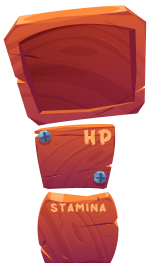
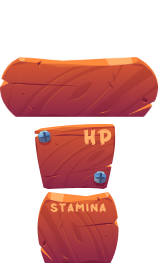
recover buttons texture default

diff --git a/Game/Source/UIModule.cpp b/Game/Source/UIModule.cpp
@@ -76,7 +76,7 @@ bool UIModule::Start()
 	checkboxTexture = app->tex->Load("Assets/UI/checkbox.png");
 	sliderTexture = app->tex->Load("Assets/UI/sliderbar.png");
 
-	textureA = app->tex->Load("Assets/UI/UI_Spritesheet_FINAL.png");
+	defaultButtonTexture = app->tex->Load("Assets/UI/defaultButton.png");
 	playButtonTexture = app->tex->Load("Assets/UI/playButton.png");
 	optionsButtonTexture = app->tex->Load("Assets/UI/optionsButton.png");
 	creditsButtonTexture = app->tex->Load("Assets/UI/creditsButton.png");
@@ -104,41 +104,41 @@ bool UIModule::Start()
 	mainmenu_continueGame_button = (GuiButton*)app->guiManager->CreateGuiControl(GuiControlType::BUTTON, 6, continueButtonsTexture, "", { 800, 740, 340, 89 }, this);
 	mainmenu_return_button =	   (GuiButton*)app->guiManager->CreateGuiControl(GuiControlType::BUTTON, 7, returnButtonTexture,"", { 800, 950, 340,89 }, this);
 
-	pausemenu_resume_button =	  (GuiButton*)app->guiManager->CreateGuiControl(GuiControlType::BUTTON, 20, textureA, "Resume", { 1620, 80, 120,30 }, this);
-	pausemenu_inventory_button =  (GuiButton*)app->guiManager->CreateGuiControl(GuiControlType::BUTTON, 21, textureA, "Inventory", { 1620, 115, 120,30 }, this);
-	pausemenu_party_button =	  (GuiButton*)app->guiManager->CreateGuiControl(GuiControlType::BUTTON, 24, textureA, "Party", { 1620, 150, 120,30 }, this);
-	pausemenu_save_button =		  (GuiButton*)app->guiManager->CreateGuiControl(GuiControlType::BUTTON, 8, textureA, "Save", { 1620, 185, 120,30 }, this);
-	pausemenu_load_button =		  (GuiButton*)app->guiManager->CreateGuiControl(GuiControlType::BUTTON, 22, textureA, "Load", { 1620, 220, 120,30 }, this);
-	pausemenu_options_button =	  (GuiButton*)app->guiManager->CreateGuiControl(GuiControlType::BUTTON, 9, textureA, "Options", { 1620, 255, 120,30 }, this);
+	pausemenu_resume_button =	  (GuiButton*)app->guiManager->CreateGuiControl(GuiControlType::BUTTON, 20, defaultButtonTexture, "Resume", { 1620, 80, 127,33 }, this);
+	pausemenu_inventory_button =  (GuiButton*)app->guiManager->CreateGuiControl(GuiControlType::BUTTON, 21, defaultButtonTexture, "Inventory", { 1620, 115, 127,33 }, this);
+	pausemenu_party_button =	  (GuiButton*)app->guiManager->CreateGuiControl(GuiControlType::BUTTON, 24, defaultButtonTexture, "Party", { 1620, 150, 127,33 }, this);
+	pausemenu_save_button =		  (GuiButton*)app->guiManager->CreateGuiControl(GuiControlType::BUTTON, 8, defaultButtonTexture, "Save", { 1620, 185, 127,33 }, this);
+	pausemenu_load_button =		  (GuiButton*)app->guiManager->CreateGuiControl(GuiControlType::BUTTON, 22, defaultButtonTexture, "Load", { 1620, 220, 127,33 }, this);
+	pausemenu_options_button =	  (GuiButton*)app->guiManager->CreateGuiControl(GuiControlType::BUTTON, 9, defaultButtonTexture, "Options", { 1620, 255, 127,33 }, this);
 	pausemenu_return_button =	  (GuiButton*)app->guiManager->CreateGuiControl(GuiControlType::BUTTON, 23, returnButtonTexture, "", { 800, 950, 340,89 }, this);
-	pausemenu_backtomain_button = (GuiButton*)app->guiManager->CreateGuiControl(GuiControlType::BUTTON, 10, textureA, "Main Menu", { 1620, 290, 120,30 }, this);
-	pausemenu_quit_button =		  (GuiButton*)app->guiManager->CreateGuiControl(GuiControlType::BUTTON, 11, textureA, "Quit", { 1620, 325, 120, 30 }, this);
+	pausemenu_backtomain_button = (GuiButton*)app->guiManager->CreateGuiControl(GuiControlType::BUTTON, 10, defaultButtonTexture, "MainMenu", { 1620, 290, 127,33 }, this);
+	pausemenu_quit_button =		  (GuiButton*)app->guiManager->CreateGuiControl(GuiControlType::BUTTON, 11, defaultButtonTexture, "Quit", { 1620, 325, 120, 30 }, this);
 
-	pausemenuCombat_resume_button =		(GuiButton*)app->guiManager->CreateGuiControl(GuiControlType::BUTTON, 100, textureA, "Resume", { 1620, 80, 120,30 }, this);
-	pausemenuCombat_options_button =	(GuiButton*)app->guiManager->CreateGuiControl(GuiControlType::BUTTON, 101, textureA, "Options", { 1620, 115, 120,30 }, this);
-	pausemenuCombat_backtomain_button = (GuiButton*)app->guiManager->CreateGuiControl(GuiControlType::BUTTON, 104, textureA, "Main Menu", { 1620, 150, 120,30 }, this);
+	pausemenuCombat_resume_button =		(GuiButton*)app->guiManager->CreateGuiControl(GuiControlType::BUTTON, 100, defaultButtonTexture, "Resume", { 1620, 80, 127,33 }, this);
+	pausemenuCombat_options_button =	(GuiButton*)app->guiManager->CreateGuiControl(GuiControlType::BUTTON, 101, defaultButtonTexture, "Options", { 1620, 115, 127,33 }, this);
+	pausemenuCombat_backtomain_button = (GuiButton*)app->guiManager->CreateGuiControl(GuiControlType::BUTTON, 104, defaultButtonTexture, "MainMenu", { 1620, 150, 127,33 }, this);
 	pausemenuCombat_return_button =		(GuiButton*)app->guiManager->CreateGuiControl(GuiControlType::BUTTON, 102, returnButtonTexture, "", { 800, 950, 340,89 }, this);
-	pausemenuCombat_quit_button =		(GuiButton*)app->guiManager->CreateGuiControl(GuiControlType::BUTTON, 103, textureA, "Quit", { 1620, 255, 120, 30 }, this);
+	pausemenuCombat_quit_button =		(GuiButton*)app->guiManager->CreateGuiControl(GuiControlType::BUTTON, 103, defaultButtonTexture, "Quit", { 1620, 255, 127,33 }, this);
 
 	combat_attack_button =  (GuiButton*)app->guiManager->CreateGuiControl(GuiControlType::BUTTON, 16, attackButtonTexture, "", { 526, 950, 246, 93 }, app->battleManager);
 	combat_ability_button = (GuiButton*)app->guiManager->CreateGuiControl(GuiControlType::BUTTON, 17, abilityButtonTexture, "",{ 821, 950, 246, 93 }, app->battleManager);
 	combat_move_button =	(GuiButton*)app->guiManager->CreateGuiControl(GuiControlType::BUTTON, 18, moveButtonTexture, "",{ 1105, 950, 246, 93 }, app->battleManager);
 	combat_endTurn_button = (GuiButton*)app->guiManager->CreateGuiControl(GuiControlType::BUTTON, 19, skipButtonTexture, "", { 57, 960, 196, 84 }, app->battleManager);
 
-	dialog_option1_button = (GuiButton*)app->guiManager->CreateGuiControl(GuiControlType::BUTTON, 12, textureA, "", { 100, 900, 800, 30 }, app->scene);
-	dialog_option2_button = (GuiButton*)app->guiManager->CreateGuiControl(GuiControlType::BUTTON, 13, textureA, "", { 100, 950, 800, 30 }, app->scene);
-	dialog_option3_button = (GuiButton*)app->guiManager->CreateGuiControl(GuiControlType::BUTTON, 14, textureA, "", { 1000, 900, 800, 30 }, app->scene);
-	dialog_option4_button = (GuiButton*)app->guiManager->CreateGuiControl(GuiControlType::BUTTON, 15, textureA, "", { 1000, 950, 800, 30 }, app->scene);
+	dialog_option1_button = (GuiButton*)app->guiManager->CreateGuiControl(GuiControlType::BUTTON, 12, nullptr, "", { 100, 900, 800, 30 }, app->scene);
+	dialog_option2_button = (GuiButton*)app->guiManager->CreateGuiControl(GuiControlType::BUTTON, 13, nullptr, "", { 100, 950, 800, 30 }, app->scene);
+	dialog_option3_button = (GuiButton*)app->guiManager->CreateGuiControl(GuiControlType::BUTTON, 14, nullptr, "", { 1000, 900, 800, 30 }, app->scene);
+	dialog_option4_button = (GuiButton*)app->guiManager->CreateGuiControl(GuiControlType::BUTTON, 15, nullptr, "", { 1000, 950, 800, 30 }, app->scene);
 
-	dialog2_option1_button = (GuiButton*)app->guiManager->CreateGuiControl(GuiControlType::BUTTON, 30, textureA, "", { 100, 900, 800, 30 }, app->w2_scene);
-	dialog2_option2_button = (GuiButton*)app->guiManager->CreateGuiControl(GuiControlType::BUTTON, 31, textureA, "", { 100, 950, 800, 30 }, app->w2_scene);
-	dialog2_option3_button = (GuiButton*)app->guiManager->CreateGuiControl(GuiControlType::BUTTON, 32, textureA, "", { 1000, 900, 800, 30 }, app->w2_scene);
-	dialog2_option4_button = (GuiButton*)app->guiManager->CreateGuiControl(GuiControlType::BUTTON, 33, textureA, "", { 1000, 950, 800, 30 }, app->w2_scene);
+	dialog2_option1_button = (GuiButton*)app->guiManager->CreateGuiControl(GuiControlType::BUTTON, 30, nullptr, "", { 100, 900, 800, 30 }, app->w2_scene);
+	dialog2_option2_button = (GuiButton*)app->guiManager->CreateGuiControl(GuiControlType::BUTTON, 31, nullptr, "", { 100, 950, 800, 30 }, app->w2_scene);
+	dialog2_option3_button = (GuiButton*)app->guiManager->CreateGuiControl(GuiControlType::BUTTON, 32, nullptr, "", { 1000, 900, 800, 30 }, app->w2_scene);
+	dialog2_option4_button = (GuiButton*)app->guiManager->CreateGuiControl(GuiControlType::BUTTON, 33, nullptr, "", { 1000, 950, 800, 30 }, app->w2_scene);
 
-	dialog3_option1_button = (GuiButton*)app->guiManager->CreateGuiControl(GuiControlType::BUTTON, 34, textureA, "", { 100, 900, 800, 30 }, app->w3_scene);
-	dialog3_option2_button = (GuiButton*)app->guiManager->CreateGuiControl(GuiControlType::BUTTON, 35, textureA, "", { 100, 950, 800, 30 }, app->w3_scene);
-	dialog3_option3_button = (GuiButton*)app->guiManager->CreateGuiControl(GuiControlType::BUTTON, 36, textureA, "", { 1000, 900, 800, 30 }, app->w3_scene);
-	dialog3_option4_button = (GuiButton*)app->guiManager->CreateGuiControl(GuiControlType::BUTTON, 37, textureA, "", { 1000, 950, 800, 30 }, app->w3_scene);
+	dialog3_option1_button = (GuiButton*)app->guiManager->CreateGuiControl(GuiControlType::BUTTON, 34, nullptr, "", { 100, 900, 800, 30 }, app->w3_scene);
+	dialog3_option2_button = (GuiButton*)app->guiManager->CreateGuiControl(GuiControlType::BUTTON, 35, nullptr, "", { 100, 950, 800, 30 }, app->w3_scene);
+	dialog3_option3_button = (GuiButton*)app->guiManager->CreateGuiControl(GuiControlType::BUTTON, 36, nullptr, "", { 1000, 900, 800, 30 }, app->w3_scene);
+	dialog3_option4_button = (GuiButton*)app->guiManager->CreateGuiControl(GuiControlType::BUTTON, 37, nullptr, "", { 1000, 950, 800, 30 }, app->w3_scene);
 
 	levelup_defenseUp_button =		(GuiButton*)app->guiManager->CreateGuiControl(GuiControlType::BUTTON, 60, plusButton, "", { 900, 400, 96, 73}, this);
 	levelup_magicUp_button =		(GuiButton*)app->guiManager->CreateGuiControl(GuiControlType::BUTTON, 61, plusButton, "", { 900, 480, 96, 73 }, this);
@@ -148,18 +148,18 @@ bool UIModule::Start()
 	levelup_AB1PowerUp_button =     (GuiButton*)app->guiManager->CreateGuiControl(GuiControlType::BUTTON, 65, plusButton, "", { 900, 800, 96, 73 }, this);
 	levelup_healingpowerUp_button = (GuiButton*)app->guiManager->CreateGuiControl(GuiControlType::BUTTON, 66, plusButton, "", { 900, 880, 96, 73 }, this);
 
-	party_timmy_button = (GuiButton*)app->guiManager->CreateGuiControl(GuiControlType::BUTTON, 67, textureA, "Unavailable", { 1000, 400, 100, 30 }, this);
-	party_bunny_button = (GuiButton*)app->guiManager->CreateGuiControl(GuiControlType::BUTTON, 68, textureA, "Unavailable", { 1000, 450, 100, 30 }, this);
-	party_lrrh_button =  (GuiButton*)app->guiManager->CreateGuiControl(GuiControlType::BUTTON, 69, textureA, "Unavailable", { 1000, 500, 100, 30 }, this);
-	party_Lpig_button =  (GuiButton*)app->guiManager->CreateGuiControl(GuiControlType::BUTTON, 70, textureA, "Unavailable", { 1000, 550, 100, 30 }, this);
-	party_Mpig_button =  (GuiButton*)app->guiManager->CreateGuiControl(GuiControlType::BUTTON, 71, textureA, "Unavailable", { 1000, 600, 100, 30 }, this);
-	party_peter_button = (GuiButton*)app->guiManager->CreateGuiControl(GuiControlType::BUTTON, 72, textureA, "Unavailable", { 1000, 650, 100, 30 }, this);
+	party_timmy_button = (GuiButton*)app->guiManager->CreateGuiControl(GuiControlType::BUTTON, 67, defaultButtonTexture, "Absent", { 1000, 400, 127,33 }, this);
+	party_bunny_button = (GuiButton*)app->guiManager->CreateGuiControl(GuiControlType::BUTTON, 68, defaultButtonTexture, "Absent", { 1000, 450, 127,33 }, this);
+	party_lrrh_button =  (GuiButton*)app->guiManager->CreateGuiControl(GuiControlType::BUTTON, 69, defaultButtonTexture, "Absent", { 1000, 500, 127,33 }, this);
+	party_Lpig_button =  (GuiButton*)app->guiManager->CreateGuiControl(GuiControlType::BUTTON, 70, defaultButtonTexture, "Absent", { 1000, 550, 127,33 }, this);
+	party_Mpig_button =  (GuiButton*)app->guiManager->CreateGuiControl(GuiControlType::BUTTON, 71, defaultButtonTexture, "Absent", { 1000, 600, 127,33 }, this);
+	party_peter_button = (GuiButton*)app->guiManager->CreateGuiControl(GuiControlType::BUTTON, 72, defaultButtonTexture, "Absent", { 1000, 650, 127,33 }, this);
 
-	inventory_timmy_button = (GuiButton*)app->guiManager->CreateGuiControl(GuiControlType::BUTTON, 73, textureA, "Timmy", { 300, 400, 100, 30 }, this);
-	inventory_bunny_button = (GuiButton*)app->guiManager->CreateGuiControl(GuiControlType::BUTTON, 74, textureA, "Bunny", { 300, 450, 100, 30 }, this);
-	inventory_lrrh_button = (GuiButton*)app->guiManager->CreateGuiControl(GuiControlType::BUTTON, 75, textureA, "LHRR", { 300, 500, 100, 30 }, this);
-	inventory_Lpig_button = (GuiButton*)app->guiManager->CreateGuiControl(GuiControlType::BUTTON, 76, textureA, "L. Pig", { 300, 550, 100, 30 }, this);
-	inventory_Mpig_button = (GuiButton*)app->guiManager->CreateGuiControl(GuiControlType::BUTTON, 77, textureA, "M. Pig", { 300, 600, 100, 30 }, this);
+	inventory_timmy_button = (GuiButton*)app->guiManager->CreateGuiControl(GuiControlType::BUTTON, 73, defaultButtonTexture, "Timmy", { 300, 400, 127,33 }, this);
+	inventory_bunny_button = (GuiButton*)app->guiManager->CreateGuiControl(GuiControlType::BUTTON, 74, defaultButtonTexture, "Bunny", { 300, 450, 127,33 }, this);
+	inventory_lrrh_button = (GuiButton*)app->guiManager->CreateGuiControl(GuiControlType::BUTTON, 75, defaultButtonTexture, "LHRR", { 300, 500, 127,33 }, this);
+	inventory_Lpig_button = (GuiButton*)app->guiManager->CreateGuiControl(GuiControlType::BUTTON, 76, defaultButtonTexture, "L. Pig", { 300, 550, 127,33 }, this);
+	inventory_Mpig_button = (GuiButton*)app->guiManager->CreateGuiControl(GuiControlType::BUTTON, 77, defaultButtonTexture, "M. Pig", { 300, 600, 127,33 }, this);
 
 	item_1_button = (GuiButton*)app->guiManager->CreateGuiControl(GuiControlType::BUTTON, 78, NULL, "+", { 960, 350, 100, 30 }, this);
 	item_2_button = (GuiButton*)app->guiManager->CreateGuiControl(GuiControlType::BUTTON, 79, NULL, "+", { 960, 400, 100, 30 }, this);
@@ -1001,7 +1001,7 @@ bool UIModule::CleanUp()
 	app->tex->UnLoad(optionsBgTexture);
 	app->tex->UnLoad(checkboxTexture);
 	app->tex->UnLoad(sliderTexture);
-	app->tex->UnLoad(textureA);
+	app->tex->UnLoad(defaultButtonTexture);
 	app->tex->UnLoad(playButtonTexture);
 	app->tex->UnLoad(optionsButtonTexture);
 	app->tex->UnLoad(creditsButtonTexture);
@@ -1401,7 +1401,7 @@ bool UIModule::OnGuiMouseClickEvent(GuiControl* control)
 		}
 		else
 		{
-			party_timmy_button->text = "Unavailable";
+			party_timmy_button->text = "Absent";
 		}
 		break;
 
@@ -1422,7 +1422,7 @@ bool UIModule::OnGuiMouseClickEvent(GuiControl* control)
 		}
 		else
 		{
-			party_bunny_button->text = "Unavailable";
+			party_bunny_button->text = "Absent";
 		}
 		break;
 
@@ -1443,7 +1443,7 @@ bool UIModule::OnGuiMouseClickEvent(GuiControl* control)
 		}
 		else
 		{
-			party_lrrh_button->text = "Unavailable";
+			party_lrrh_button->text = "Absent";
 		}
 		break;
 
@@ -1464,7 +1464,7 @@ bool UIModule::OnGuiMouseClickEvent(GuiControl* control)
 		}
 		else
 		{
-			party_Lpig_button->text = "Unavailable";
+			party_Lpig_button->text = "Absent";
 		}
 		break;
 
@@ -1485,7 +1485,7 @@ bool UIModule::OnGuiMouseClickEvent(GuiControl* control)
 		}
 		else
 		{
-			party_Mpig_button->text = "Unavailable";
+			party_Mpig_button->text = "Absent";
 		}
 		break;
 
@@ -1506,7 +1506,7 @@ bool UIModule::OnGuiMouseClickEvent(GuiControl* control)
 		}
 		else
 		{
-			party_peter_button->text = "Unavailable";
+			party_peter_button->text = "Absent";
 		}
 	}
 
@@ -2459,7 +2459,7 @@ void UIModule::CheckPartyTextOnStart()
 	}
 	else
 	{
-		party_timmy_button->text = "Unavailable";
+		party_timmy_button->text = "Absent";
 	}
 
 	// Bunny
@@ -2476,7 +2476,7 @@ void UIModule::CheckPartyTextOnStart()
 	}
 	else
 	{
-		party_bunny_button->text = "Unavailable";
+		party_bunny_button->text = "Absent";
 	}
 
 	// LRRH
@@ -2493,7 +2493,7 @@ void UIModule::CheckPartyTextOnStart()
 	}
 	else
 	{
-		party_lrrh_button->text = "Unavailable";
+		party_lrrh_button->text = "Absent";
 	}
 
 	// LPig
@@ -2510,7 +2510,7 @@ void UIModule::CheckPartyTextOnStart()
 	}
 	else
 	{
-		party_Lpig_button->text = "Unavailable";
+		party_Lpig_button->text = "Absent";
 	}
 
 	// MPig
@@ -2527,7 +2527,7 @@ void UIModule::CheckPartyTextOnStart()
 	}
 	else
 	{
-		party_Mpig_button->text = "Unavailable";
+		party_Mpig_button->text = "Absent";
 	}
 
 	// Peter
@@ -2544,7 +2544,7 @@ void UIModule::CheckPartyTextOnStart()
 	}
 	else
 	{
-		party_peter_button->text = "Unavailable";
+		party_peter_button->text = "Absent";
 	}
 }
 

diff --git a/Game/Source/BattleManager.cpp b/Game/Source/BattleManager.cpp
@@ -518,7 +518,7 @@ void BattleManager::UIStatsForBattle()
 	int i = 0;
 	// UI Stats for Battle
 
-	app->fonts->DrawText("--- NEXT  TURN --- ", 80, 100, 200, 200, { 255,255,255 }, app->fonts->gameFont);
+	app->fonts->DrawText("--- NEXT  TURN --- ", 1640, 900, 200, 200, { 255,255,255 }, app->fonts->gameFont);
 
 	if (turnList.Count() > 1) {
 	/*	int x = 1;
@@ -527,7 +527,7 @@ void BattleManager::UIStatsForBattle()
 			{
 				x++;
 			}*/
-			app->fonts->DrawText(turnList.At(1)->data->namechar.GetString(), 110, 125, 200, 200, { 255,255,255 }, app->fonts->gameFont);
+			app->fonts->DrawText(turnList.At(1)->data->namechar.GetString(), 1670, 950, 200, 200, { 255,255,255 }, app->fonts->gameFont);
 
 	}
 
@@ -542,8 +542,8 @@ void BattleManager::UIStatsForBattle()
 		std::string hpString = std::to_string(hp);
 		const char* hpChar = hpString.c_str();
 	    
-		//const char* nameChar = allyItem->data->namechar.GetString();
-		//app->fonts->DrawText(nameChar, 80, 250 + i, 200, 200, {255,255,255}, app->fonts->gameFont);
+		const char* nameChar = allyItem->data->namechar.GetString();
+		app->fonts->DrawText(nameChar, 25, 80 + i, 200, 200, {255,255,255}, app->fonts->gameFont);
 		//app->fonts->DrawText("- HP: ", 80, 280 + i, 200, 200, { 255,255,255 }, app->fonts->gameFont);
 		app->fonts->DrawText(hpChar, 70, 150 + i, 200, 200, { 255,255,255 }, app->fonts->gameFont);
 		//app->fonts->DrawText("- Stamina: ", 80, 310 + i, 200, 200, { 255,255,255 }, app->fonts->gameFont);
@@ -563,9 +563,7 @@ void BattleManager::UIStatsForBattle()
 		const char* hpChar = hpString.c_str();
 
 		const char* nameChar = enemyItem->data->namechar.GetString();
-
-
-		//app->fonts->DrawText(nameChar, 1690+30, 200+i, 200, 200, { 255,255,255 }, app->fonts->gameFont);
+		app->fonts->DrawText(nameChar, 1770, 80+i, 200, 200, { 255,255,255 }, app->fonts->gameFont);
 		//app->fonts->DrawText("- HP: ", 1690+30, 230+i, 200, 200, { 255,255,255 }, app->fonts->gameFont);
 		app->fonts->DrawText(hpChar, 1820, 150+i, 200, 200, { 255,255,255 }, app->fonts->gameFont);
 		//app->fonts->DrawText("- Stamina: ", 1690+30, 260+i, 200, 200, { 255,255,255 }, app->fonts->gameFont);

diff --git a/Game/Source/TeamManager.cpp b/Game/Source/TeamManager.cpp
@@ -965,8 +965,8 @@ void TeamManager::PrintLvlUpText()
 	uint remainPoints = LvlUpPoints;
 	std::string remainPointsString = std::to_string(remainPoints);
 	const char* remainPointsChar = remainPointsString.c_str();
-	app->fonts->DrawText("Points: ", -app->render->camera.x + 900, -app->render->camera.y + 350, 100, 100, { 0, 0, 0 });
-	app->fonts->DrawText(remainPointsChar, -app->render->camera.x + 975, -app->render->camera.y + 350, 100, 100, { 0, 0, 0 });
+	app->fonts->DrawText("Points: ", -app->render->camera.x + 1230, -app->render->camera.y + 380, 100, 100, { 0, 0, 0 });
+	app->fonts->DrawText(remainPointsChar, -app->render->camera.x + 1225, -app->render->camera.y + 420, 100, 100, { 0, 200, 25 }, app->fonts->gameFontBig);
 
 	uint defense = characters.At(cont)->data->defense + statslist.At(cont)->data->defense - statslist2.At(cont)->data.defense;
 	std::string defenSestring = std::to_string(defense);

diff --git a/Game/Source/GuiButton.cpp b/Game/Source/GuiButton.cpp
@@ -110,7 +110,7 @@ bool GuiButton::Draw(Render* render)
 		break;
 	}
 
-	app->fonts->DrawText(text.GetString(), bounds.x + bounds.w / 4, bounds.y, bounds.w, bounds.h, { 255,255,255 }, app->fonts->gameFont, true);
+	app->fonts->DrawText(text.GetString(), bounds.x + bounds.w / 4 - 15, bounds.y, bounds.w, bounds.h, { 255,255,255 }, app->fonts->gameFont, true);
 
 	return false;
 }

diff --git a/Game/Source/UIModule.h b/Game/Source/UIModule.h
@@ -203,7 +203,7 @@ public:
 	SDL_Texture* optionsBgTexture;
 	SDL_Texture* checkboxTexture;
 
-	SDL_Texture* textureA;
+	SDL_Texture* defaultButtonTexture;
 	SDL_Texture* playButtonTexture;
 	SDL_Texture* optionsButtonTexture;
 	SDL_Texture* creditsButtonTexture;
